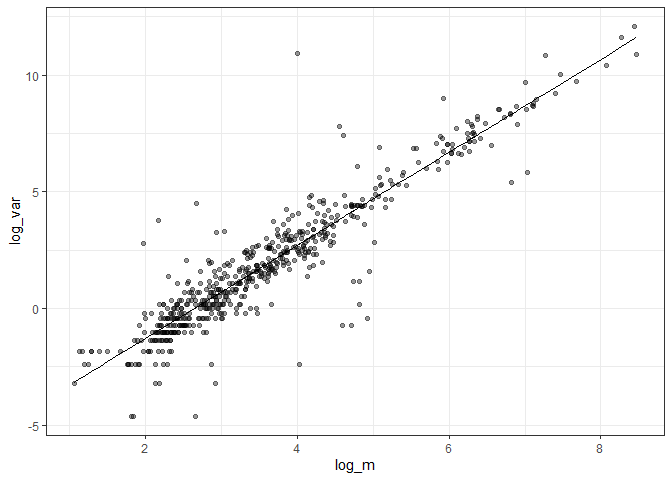
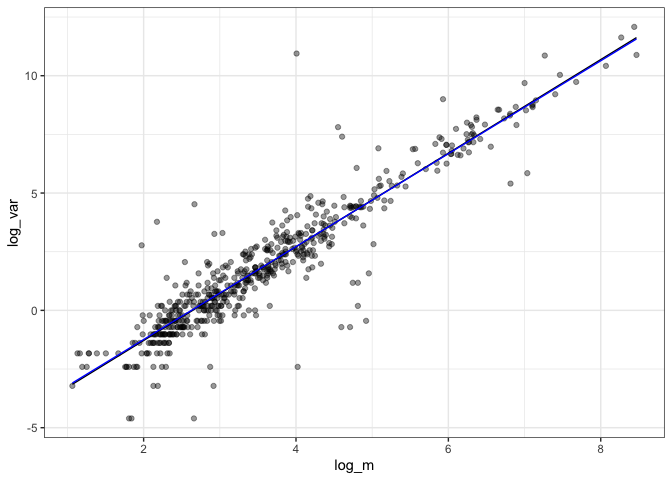
hm?

diff --git a/analysis/reports/sd_relationship.md b/analysis/reports/sd_relationship.md
@@ -5,55 +5,10 @@ Size data analysis
 sp_raw <- read.csv(here::here("analysis", "species_data", "species_list_working.csv"), stringsAsFactors = F, strip.white = T, na.strings = "")
 ```
 
-### Data cleanup
-
-Trivial:
-
-  - remove common names columns (special characters get messed up in
-    Excel)
-  - rename `species_id` column (got messed up in excel)
-
-Some substance:
-
-  - For species that have been split, fill in values
-
-<!-- end list -->
-
-``` r
-colnames(sp_raw)[1] <- "species_id"
-
-sp_clean <- sp_raw %>%
-  select(-english_common_name, -french_common_name, -spanish_common_name, -sporder, -family) 
-
-name_change <- filter(sp_clean, not_in_dunning == 1)
-
-sp_clean <- filter(sp_clean, is.na(not_in_dunning)) %>%
-  mutate(added_flag = NA)
-
-for(i in 1:nrow(name_change)) {
-    
-  if(!is.na(name_change$close_subspecies[i])) {
-  matched_rows <- filter(sp_clean,
-                         genus == name_change$close_genus[i],
-                         species == name_change$close_species[i],
-                         subspecies == name_change$close_subspecies[i])
-  } else {
-    matched_rows <- filter(sp_clean,
-                         genus == name_change$close_genus[i],
-                         species == name_change$close_species[i])
-  }
-  
-  sp_to_add <- matched_rows %>%
-    mutate(species_id = name_change$species_id[i],
-           id = name_change$id[i],
-           added_flag = 1)
-  
-  sp_clean <- bind_rows(sp_clean, sp_to_add)
-  
-}
-```
-
 ### SD fit
+
+Black line of fit is parameters as estimated from a lm fit to this data;
+blue line is using the parameters from Thibault (2011).
 
 ``` r
 sp_for_sd <- filter(sp_raw,
@@ -92,13 +47,16 @@ summary(sd_fit)
 ``` r
 sp_for_sd <- mutate(sp_for_sd,
                     log_var_est = -5.273 + (log_m * 1.995)) %>%
-  mutate(var_est = exp(log_var_est))
+  mutate(var_est = exp(log_var_est),
+         t_var_est = .0055 * (mass ^ 1.98)) %>%
+  mutate(log_t_var_est = log(t_var_est))
 
 
 ggplot(sp_for_sd, aes(x = log_m, y = log_var)) +
   geom_point(alpha = .4) +
   theme_bw() +
-  geom_line(aes(x = log_m, y = log_var_est))
+  geom_line(aes(x = log_m, y = log_var_est)) +
+  geom_line(aes(x = log_m, y = log_t_var_est), color = "blue")
 ```
 
 ![](sd_relationship_files/figure-gfm/fit%20sd-1.png)<!-- -->
@@ -107,7 +65,8 @@ ggplot(sp_for_sd, aes(x = log_m, y = log_var)) +
 ggplot(sp_for_sd, aes(x = mass, y = var)) +
   geom_point(alpha = .4) +
   theme_bw() +
-  geom_line(aes(x = mass, y = var_est))
+  geom_line(aes(x = mass, y = var_est)) +
+  geom_line(aes(x = mass, y = t_var_est), color = "blue")
 ```
 
 ![](sd_relationship_files/figure-gfm/fit%20sd-2.png)<!-- -->
